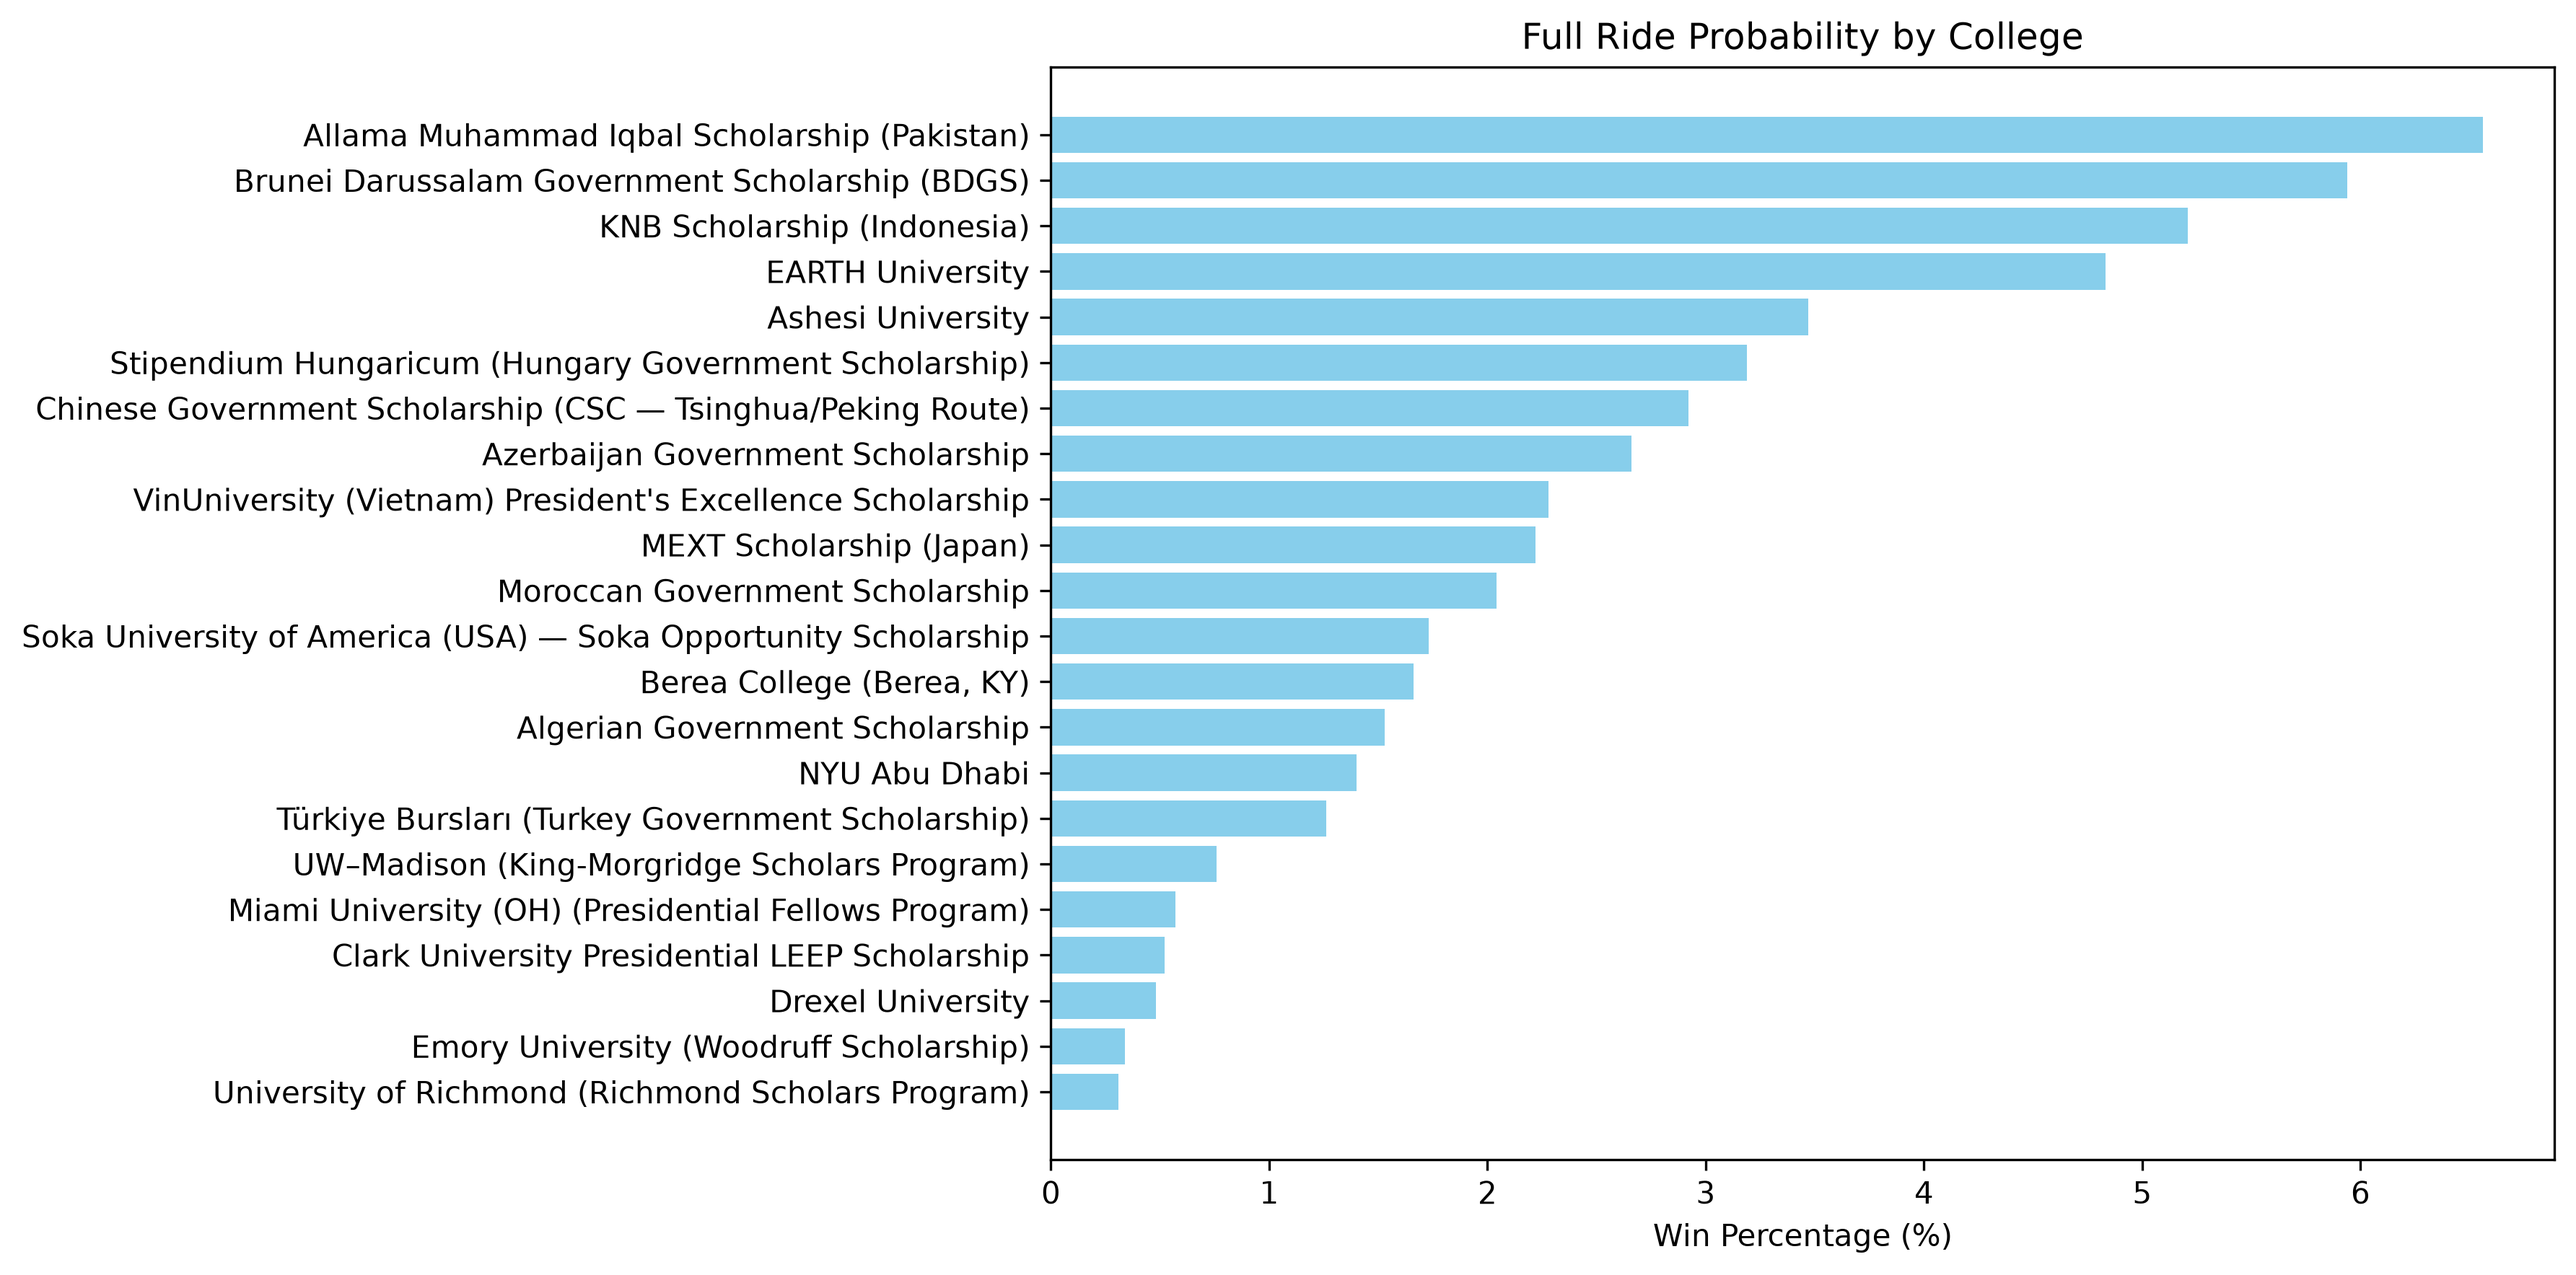
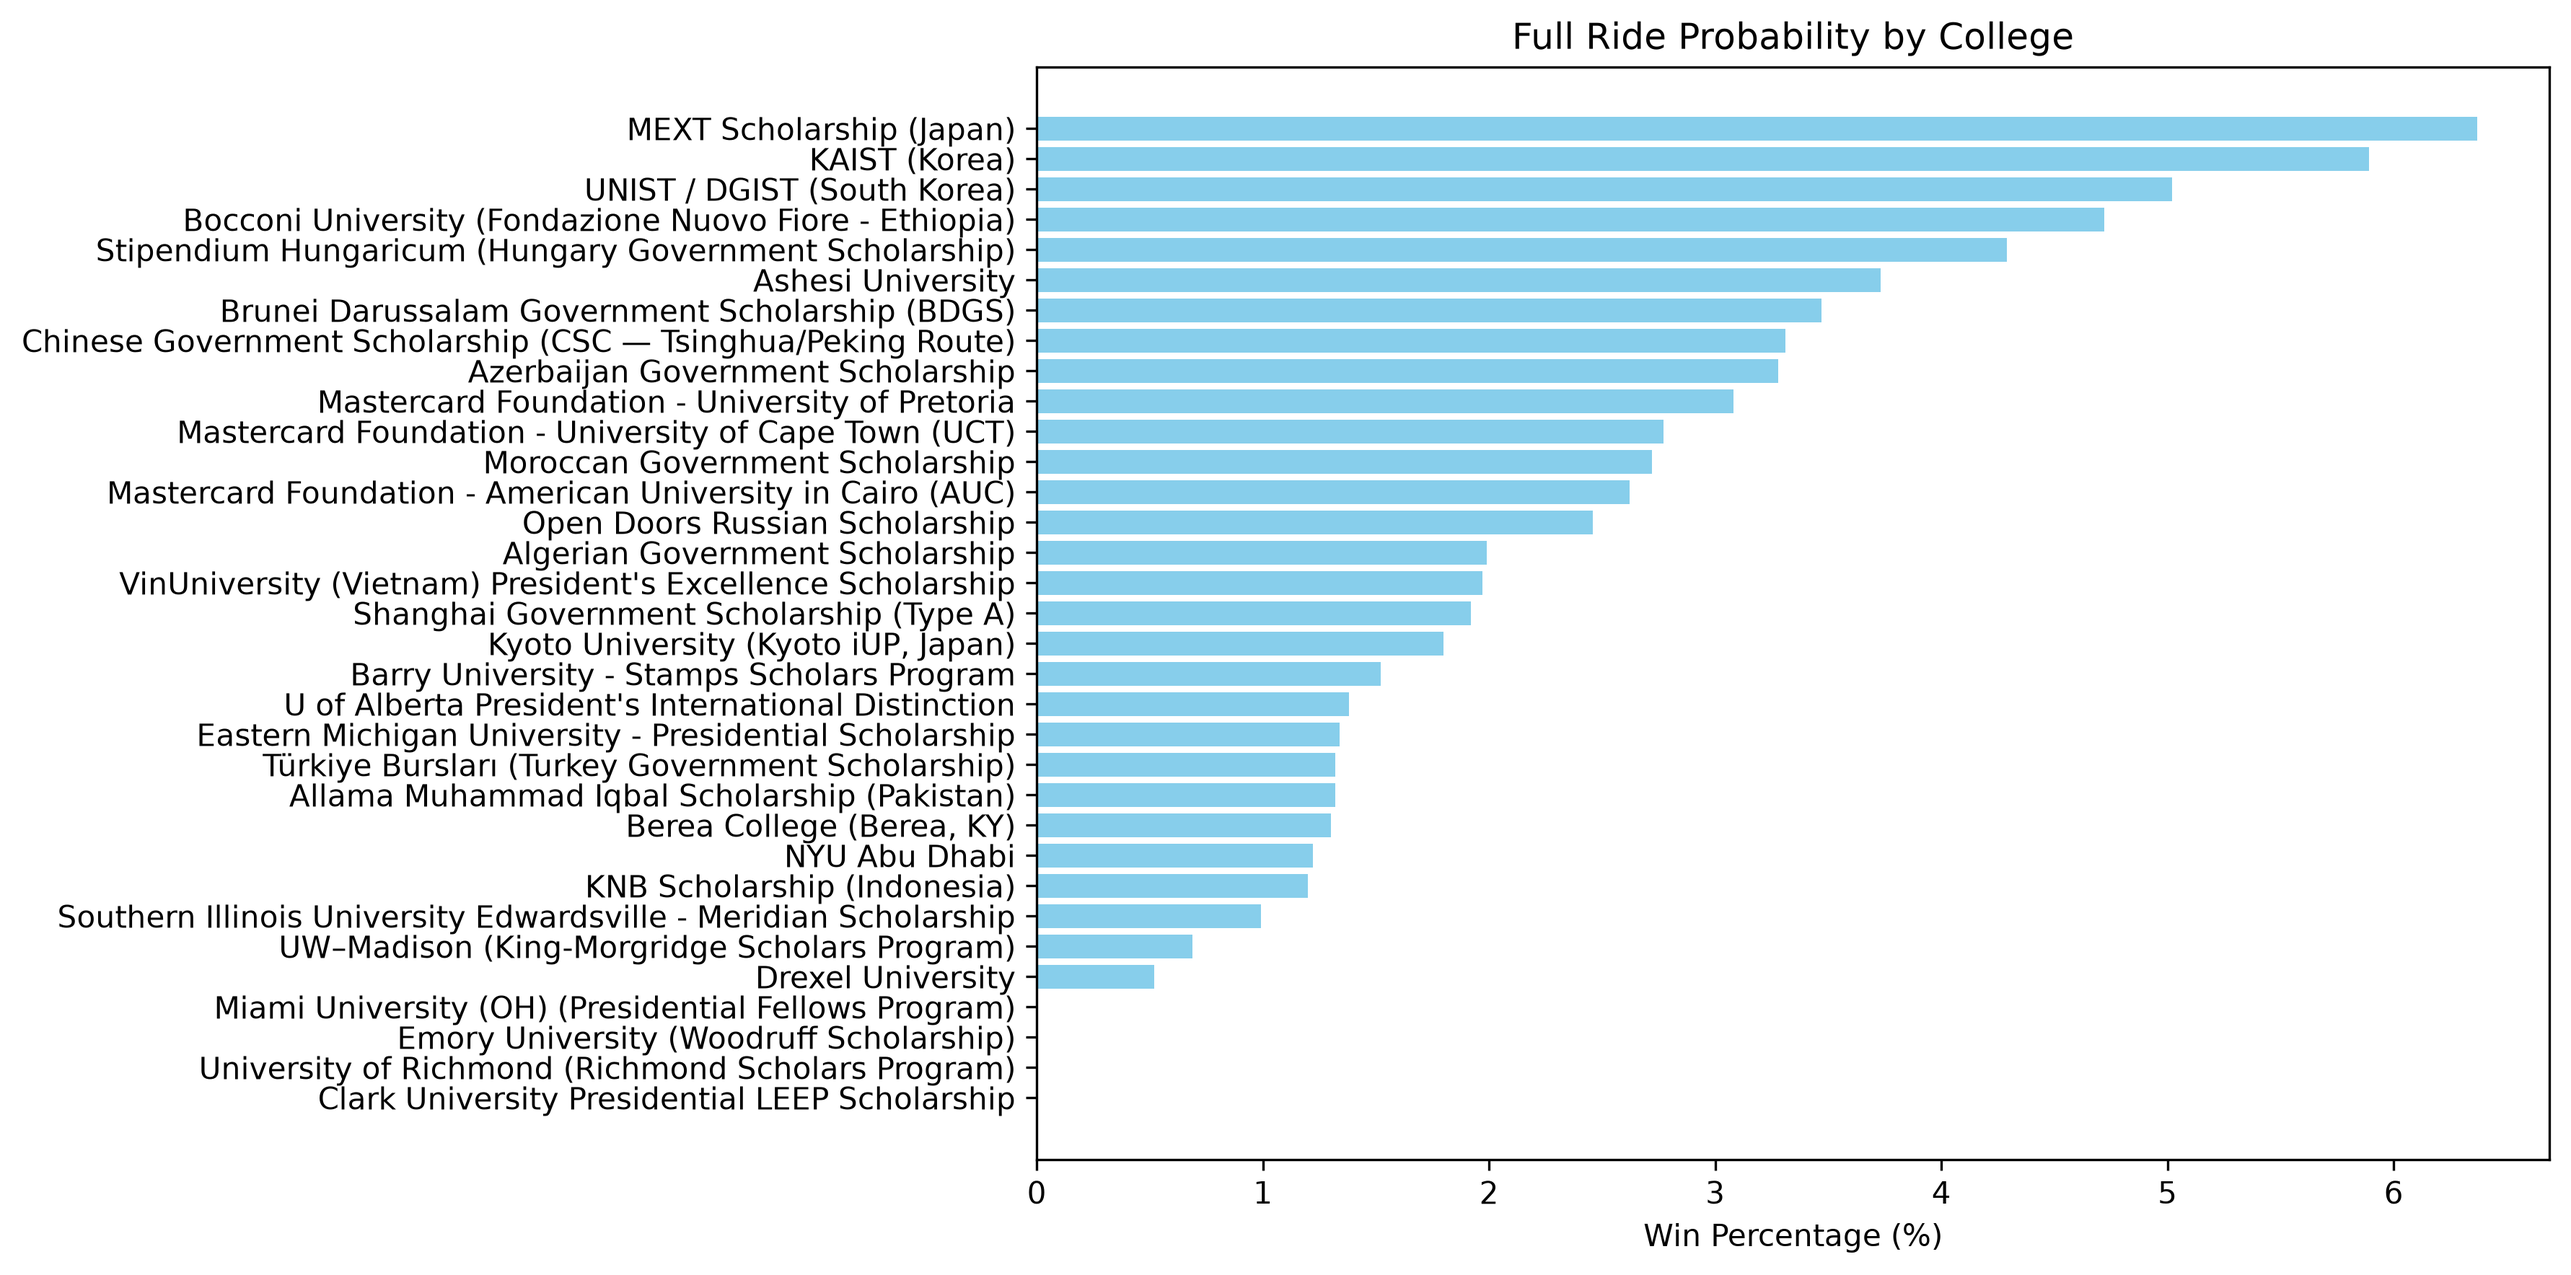
Full monte Simulation V1

Changed region(s): [[0.0, 0.0933, 0.9655, 0.871], [0.5918, 0.0, 0.8098, 0.0622], [0.6229, 0.9644, 0.7475, 0.9955]]

diff --git a/modules.py b/modules.py
@@ -57,10 +57,11 @@ class Operations():
         return decay
     
     def weighted_sum(self, c: pd.DataFrame, beta: float, T_c: int, xi: float, p_c: float):
+        _sat = self.sat # Throw away variable for test optionality
         if c["submitting_sat"] == False:
 # Neutral stand point on test optionality
-            self.sat = 0.5
-        S_c = T_c * (beta * p_c * ((c["w_gpa"] * self.gpa) + (c["w_sat"] * self.sat) + (c["w_essay"] * self.essay_eff) + (c["w_ecs"] * self.ecs) + (c["w_rec"] * self.rec) + (c["w_awards"] * self.awards)) + xi)
+            _sat = 0.5
+        S_c = T_c * (beta * p_c * ((c["w_gpa"] * self.gpa) + (c["w_sat"] * _sat) + (c["w_essay"] * self.essay_eff) + (c["w_ecs"] * self.ecs) + (c["w_rec"] * self.rec) + (c["w_awards"] * self.awards)) + xi)
         # Clamping
         if S_c > 1.0:
             S_c = 1.0
@@ -72,7 +73,7 @@ class Operations():
         return int(self.rng.random() < S_c)
 
     def academic_triage(self, college: pd.DataFrame):
-        if (self.gpa * 1.5) + 2.5 >= college["min_gpa"]:
+        if self.gpa >= college["min_gpa"]:
             if (self.sat * 600) + 1000 < college["min_sat"] and not college["test_optionality"]:
                 T_c = 0
             else:
@@ -124,12 +125,12 @@ class Operations():
 
     def reset(self):
         # Randomizes college order
-        self.college_df = self.college_df.sample(frac=1).reset_index(drop=True)
+        self.college_df = self.college_df.sample(frac=1, random_state=self.rng).reset_index(drop=True)
         # Cleans Beta lists for the next trial
-#       self.need_beta = [self.beta_default]
-#       self.merit_beta = [self.beta_default]
-#       self.special_beta = [self.beta_default]
-#       self.government_beta = [self.beta_default]
+        self.need_beta = [self.beta_default]
+        self.merit_beta = [self.beta_default]
+        self.special_beta = [self.beta_default]
+        self.government_beta = [self.beta_default]
         # Re-runs cluster noise
         self.need_noise = self.rng.normal(loc=self.mu, scale=self.sigma)
         self.merit_noise = self.rng.normal(loc=self.mu, scale=self.sigma)
@@ -217,7 +218,7 @@ class Operations():
             beta_c = self.current_beta(college)
             T_c = self.academic_triage(college)
             xi_c = self.noise(college)
-            p_c = college["full_ride_perc"]
+            p_c = college["full_ride_perc"] 
             S_c = self.weighted_sum(college, beta_c, T_c, xi_c, p_c)
             
             # Update beta

diff --git a/config_loader.py b/config_loader.py
@@ -40,14 +40,14 @@ class Validate():
             raise ValueError("Your config.yaml applicant infromation is wrong, everything except gpa and SAT must be out of 1")
         # DF Converting
         if (self.college_df["min_gpa"] > 1).any():
-            self.college_df["min_gpa"] =  self.college_df["min_gpa"] / 4 
+            self.college_df["min_gpa"] =  (self.college_df["min_gpa"] - 2.5) / 1.5 
             print("Converting MIN GPA to 1.0 Scale")
 
         print("Converting MIN SAT to 1.0 Scale")
         i = 0
         for row in self.college_df["min_sat"]:
             if row > 1:
-                self.college_df.loc[i, "min_sat"] = (row - 400) / 1200
+                self.college_df.loc[i, "min_sat"] = (row - 1000) / 600
             i+=1
 
 

diff --git a/prompts/colleges.md b/prompts/colleges.md
@@ -1,0 +1,25 @@
+Role: You are an expert international college admissions statistician.
+
+Task: I need you to calculate the full_ride_perc for the following college/scholarship: [INSERT COLLEGE/SCHOLARSHIP NAME HERE].
+
+The Formula: full_ride_perc = P(Admit) * P(Full Ride | Admit)
+
+Definitions & Constraints:
+
+P(Admit): Use the International acceptance rate if the school separates domestic and international. If unknown, use the overall acceptance rate but apply a 0.8x penalty multiplier to account for the increased competition for internationals.
+
+P(Full Ride | Admit): A "full ride" means 100% tuition + living stipend. Do not count partial merit scholarships or "meets 100% demonstrated need" (unless it is guaranteed to be a 100% no-loan/no-work package). Calculate this as (Total Full Rides Awarded Annually) / (Total Admitted Students).
+
+Government Scholarships: If the program is the scholarship (e.g., MEXT, Stipendium), P(Full Ride | Admit) = 1.0. Therefore, full_ride_perc = P(Admit). Use the overall success rate of the application pool.
+
+Harshness Factor (Conservative Estimate): Be pessimistic. If a school says "up to 10 scholarships," assume exactly 10. If data is vague, round the final percentage down to the nearest 0.005.
+
+Output Format:
+
+P(Admit): [Value] (Reasoning: total applicants, total admits, source)
+
+P(Full Ride | Admit): [Value] (Reasoning: total full rides, total admits, source)
+
+Final full_ride_perc: [Value]
+
+Confidence Level: [High/Medium/Low] based on data availability.
